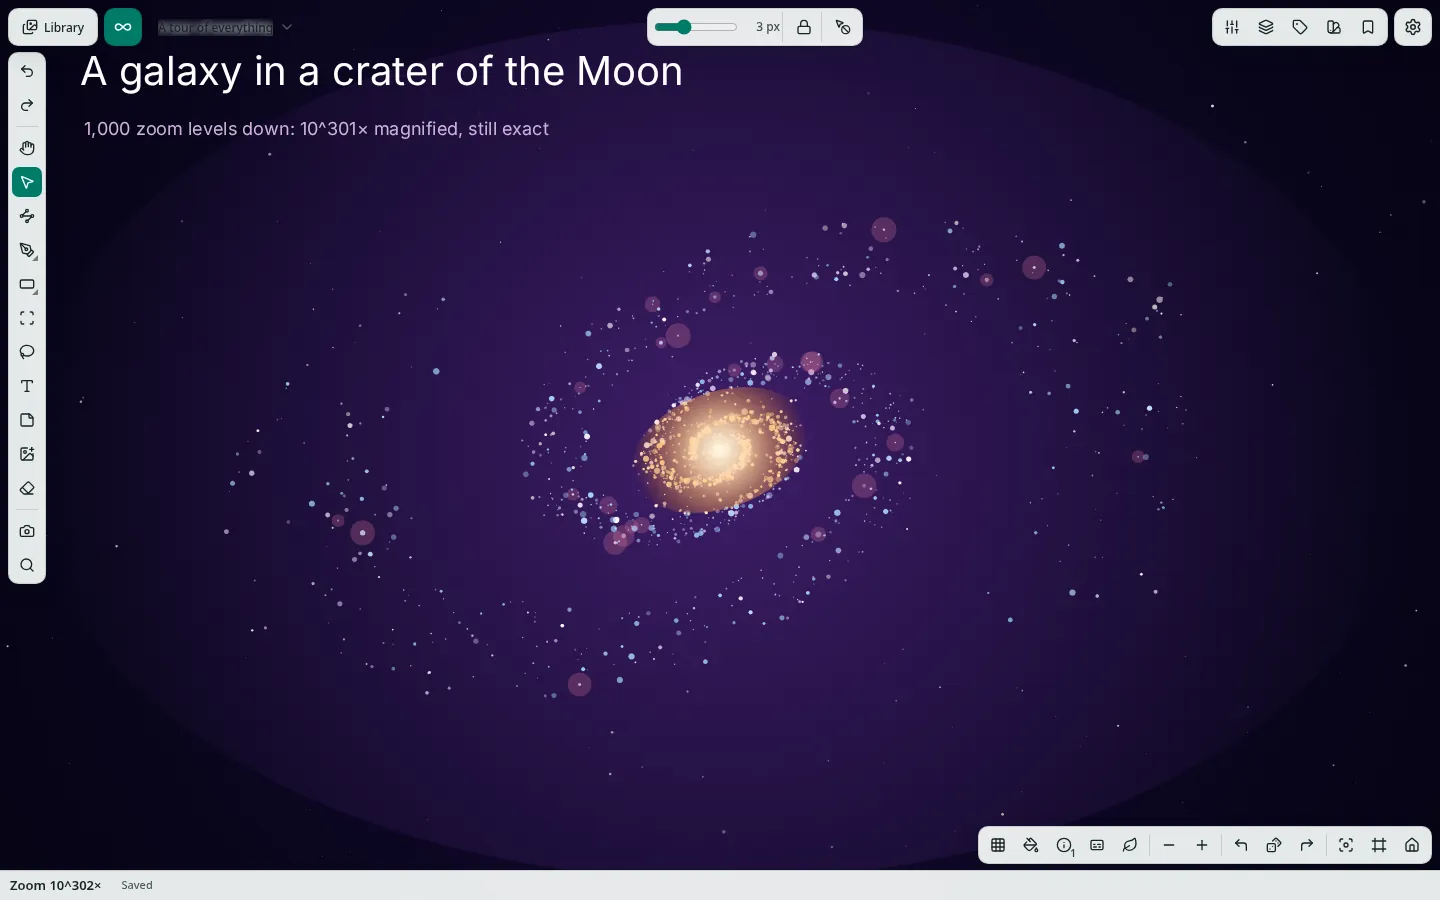
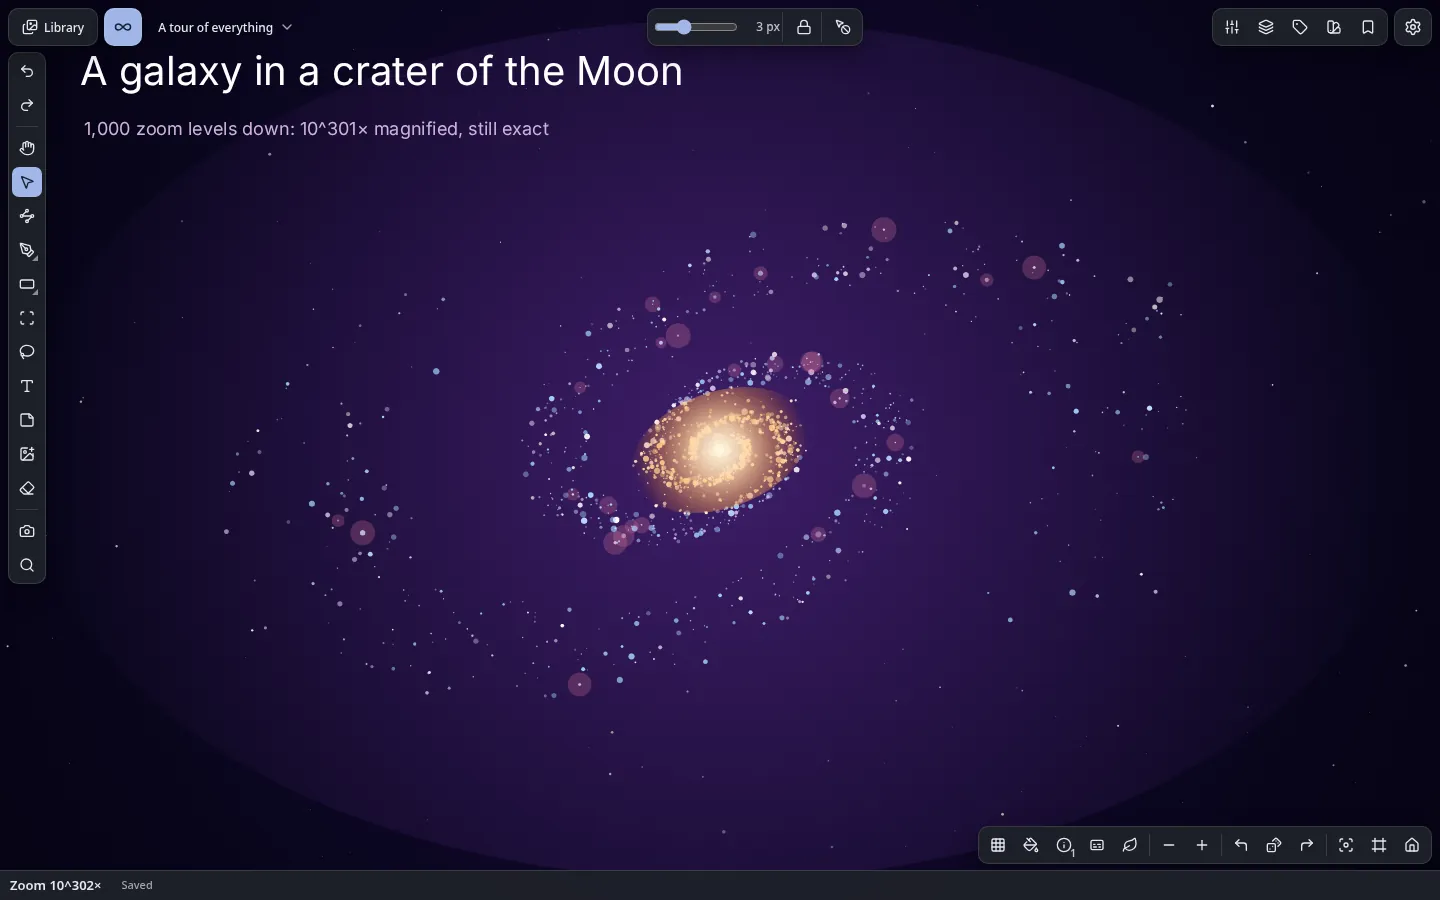
docs: README screenshots in the dark theme with the Ultramarine theme colour, no notices in the pictures
Claude-Session: https://claude.ai/code/session_01BEJTYxfc4ZqPDWFu4dCbQV

diff --git a/README.md b/README.md
@@ -17,7 +17,7 @@
 | ![A galaxy 1,000 zoom levels inside a crater of the Moon](docs/screenshots/deep-zoom.webp) | ![The cosmic web, 16,384 times farther out](docs/screenshots/zoom-out.webp) |
 | A galaxy 1,000 zoom levels down (10^301× magnified), still exact | The cosmic web: the whole Solar System is the speck in the ring |
 
-The showcase is generated by `scripts/showcase/build.mjs`, which drives the app like a person would. `scripts/showcase/shots.mjs` takes the screenshots in this README.
+The showcase is generated by `scripts/showcase/build.mjs`, which drives the app like a person would. `scripts/showcase/shots.mjs` takes the screenshots in this README, in the dark theme with the *Ultramarine* theme colour (Settings → Appearance).
 
 ## Contents
 
